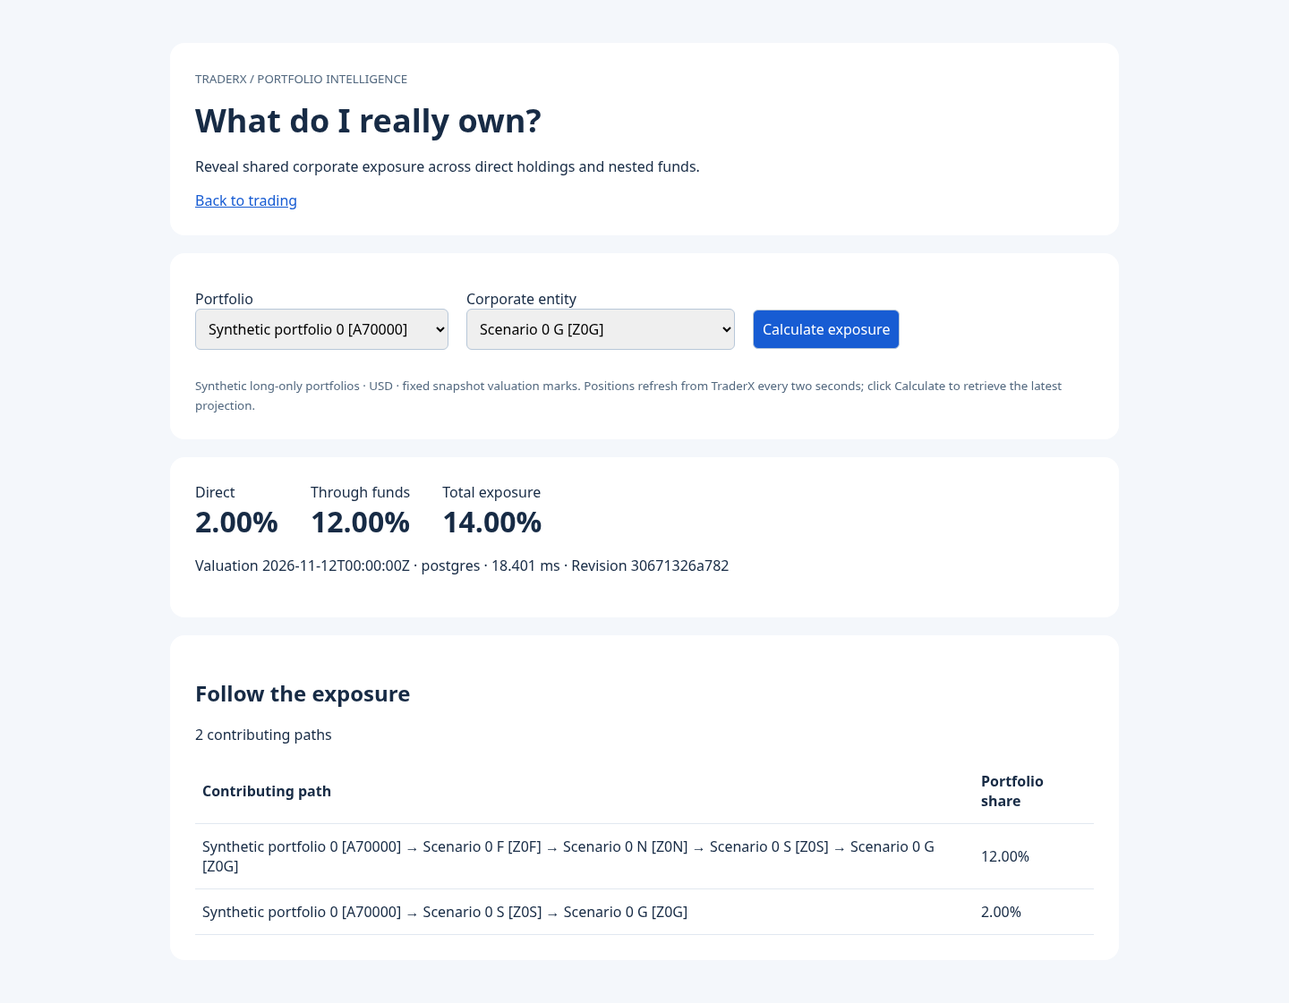
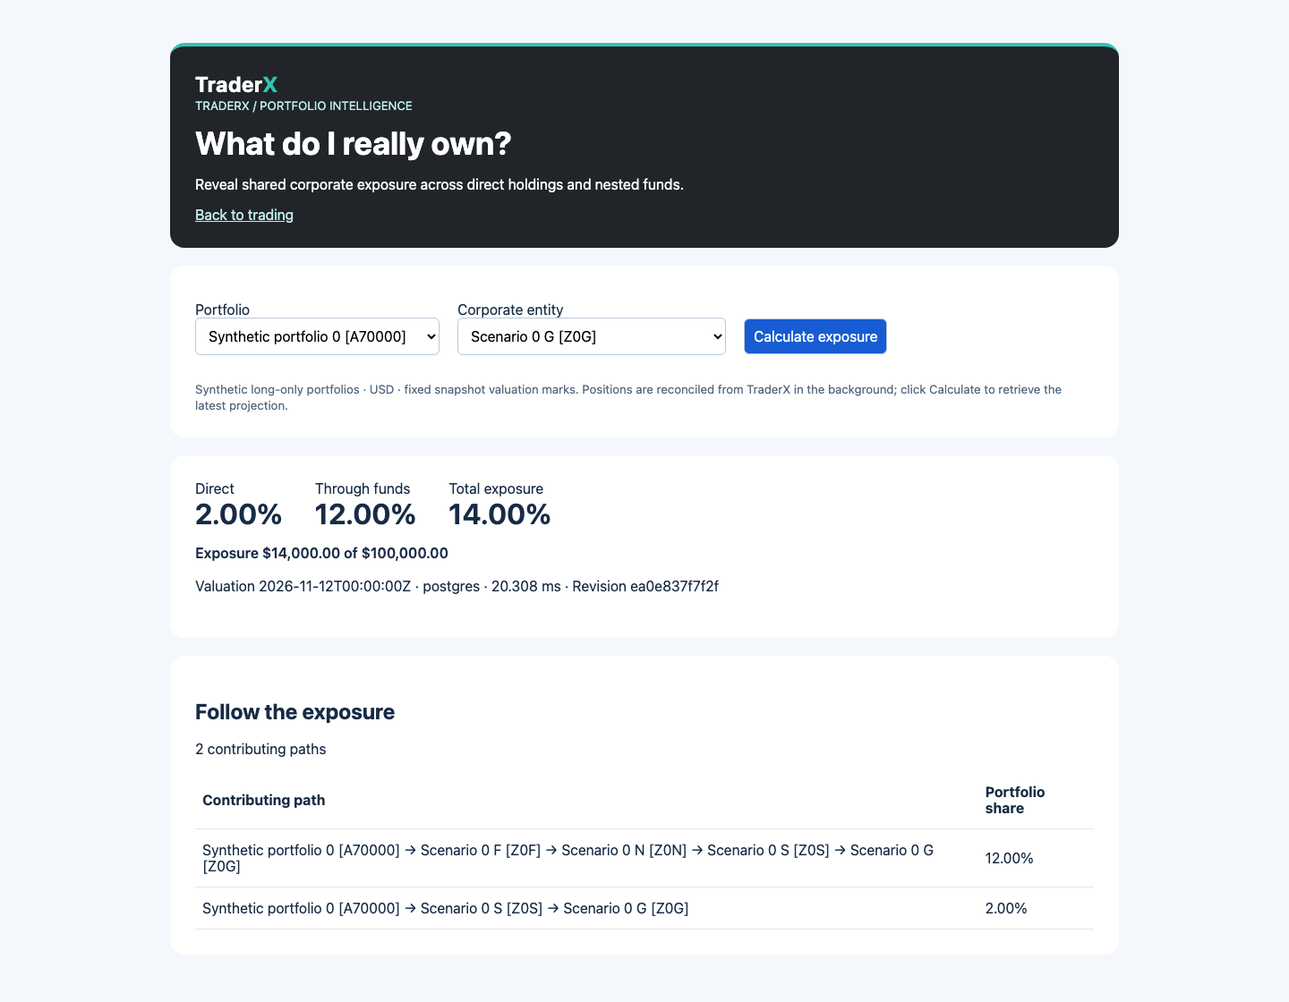
Validate exposure states, fix snapshot correctness, and benchmark 100k portfolios

diff --git a/specs/017-portfolio-lookthrough/generation/exposure-service/static/index.html b/specs/017-portfolio-lookthrough/generation/exposure-service/static/index.html
@@ -1,15 +1,15 @@
 <!doctype html><html lang="en"><meta charset="utf-8"><meta name="viewport" content="width=device-width, initial-scale=1">
 <title>TraderX · Portfolio exposure</title>
-<style>body{font:16px system-ui;color:#172b45;background:#f4f7fb;max-width:1060px;margin:48px auto;padding:0 24px}header,section{background:white;padding:28px;border-radius:16px;margin:20px 0}h1{font-size:36px;margin:12px 0}small{color:#52687f}label{display:inline-block;margin:12px 20px 12px 0}select,button{font:inherit;padding:10px;border:1px solid #b7c7d8;border-radius:6px;max-width:300px}button{background:#175cd3;color:white;cursor:pointer}.cards{display:flex;gap:36px;flex-wrap:wrap}.number{font-size:32px;font-weight:650}table{width:100%;border-collapse:collapse}td,th{overflow-wrap:anywhere;text-align:left;padding:14px 8px;border-bottom:1px solid #e1e8f0}#error{color:#a21b28}a{color:#175cd3}#status{line-height:1.6}</style>
-<header><small>TRADERX / PORTFOLIO INTELLIGENCE</small><h1>What do I really own?</h1><p>Reveal shared corporate exposure across direct holdings and nested funds.</p><a href="/trade">Back to trading</a></header>
+<style>body{font:16px system-ui;color:#172b45;background:#f4f7fb;max-width:1060px;margin:48px auto;padding:0 24px}header,section{background:white;padding:28px;border-radius:16px;margin:20px 0}h1{font-size:36px;margin:12px 0}small{color:#52687f}label{display:inline-block;margin:12px 20px 12px 0}select,button{font:inherit;padding:10px;border:1px solid #b7c7d8;border-radius:6px;max-width:300px}button{background:#175cd3;color:white;cursor:pointer}.cards{display:flex;gap:36px;flex-wrap:wrap}.number{font-size:32px;font-weight:650}table{width:100%;border-collapse:collapse}td,th{overflow-wrap:anywhere;text-align:left;padding:14px 8px;border-bottom:1px solid #e1e8f0}#error{color:#a21b28}a{color:#175cd3}#status{line-height:1.6}header{background:#212529;color:#fff;border-top:4px solid #31c3b3}header small,header a{color:#bfeee8}.brand{font-size:24px;font-weight:700;letter-spacing:.02em}.brand span{color:#31c3b3}#valuation{font-weight:600}@media(max-width:600px){body{margin:16px auto;padding:0 12px}header,section{padding:20px}h1{font-size:28px}select{max-width:100%}label{display:block;margin-right:0}.cards{gap:20px}}</style>
+<header><div class="brand">Trader<span>X</span></div><small>TRADERX / PORTFOLIO INTELLIGENCE</small><h1>What do I really own?</h1><p>Reveal shared corporate exposure across direct holdings and nested funds.</p><a href="/trade">Back to trading</a></header>
 <section><label>Portfolio<br><select id="account" aria-label="Portfolio"></select></label><label>Corporate entity<br><select id="target" aria-label="Corporate entity"></select></label><button id="refresh">Calculate exposure</button><p id="error" role="alert"></p><small>Synthetic long-only portfolios · USD · fixed snapshot valuation marks. Positions are reconciled from TraderX in the background; click Calculate to retrieve the latest projection.</small></section>
-<section><div class="cards"><div>Direct<div id="direct" class="number">—</div></div><div>Through funds<div id="indirect" class="number">—</div></div><div>Total exposure<div id="total" class="number">—</div></div></div><p id="status"></p></section>
+<section><div class="cards"><div>Direct<div id="direct" class="number">—</div></div><div>Through funds<div id="indirect" class="number">—</div></div><div>Total exposure<div id="total" class="number">—</div></div></div><p id="valuation"></p><p id="status"></p></section>
 <section><h2>Follow the exposure</h2><p id="count"></p><table><thead><tr><th>Contributing path</th><th>Portfolio share</th></tr></thead><tbody id="paths"></tbody></table></section>
 <script>
 const base=location.pathname.startsWith('/exposure')?'/exposure':'';
 const el=id=>document.getElementById(id), pct=x=>(x*100).toFixed(2)+'%';
 async function json(url){const r=await fetch(base+url);const d=await r.json();if(!r.ok)throw Error(d.error||'Service unavailable');return d;}
-async function refresh(){el('error').textContent='';el('refresh').disabled=true;try{const d=await json('/api/exposure?account='+encodeURIComponent(el('account').value.slice(1))+'&target='+encodeURIComponent(el('target').value));el('direct').textContent=pct(d.directFraction);el('indirect').textContent=pct(d.indirectFraction);el('total').textContent=pct(d.totalFraction);el('status').textContent='Valuation '+d.valuationAsOf+' · '+d.backend+' · '+d.elapsedMs+' ms · Revision '+d.revision.slice(0,12);el('count').textContent=d.pathCount+' contributing paths'+(d.pathsTruncated?' (showing first '+d.paths.length+')':'');el('paths').replaceChildren();for(const path of d.paths){const tr=document.createElement('tr');for(const text of [path.nodes.map(n=>n.name+' ['+n.id+']').join(' → '),pct(path.fraction)]){const td=document.createElement('td');td.textContent=text;tr.append(td);}el('paths').append(tr);}}catch(e){el('error').textContent=e.message;for(const id of ['direct','indirect','total'])el(id).textContent='—';el('paths').replaceChildren();}finally{el('refresh').disabled=false;}}
+async function refresh(){el('error').textContent='';el('refresh').disabled=true;try{const d=await json('/api/exposure?account='+encodeURIComponent(el('account').value.slice(1))+'&target='+encodeURIComponent(el('target').value));el('direct').textContent=pct(d.directFraction);el('indirect').textContent=pct(d.indirectFraction);el('total').textContent=pct(d.totalFraction);el('valuation').textContent='Exposure '+new Intl.NumberFormat('en-US',{style:'currency',currency:'USD'}).format(d.exposureValue)+' of '+new Intl.NumberFormat('en-US',{style:'currency',currency:'USD'}).format(d.portfolioValue);el('status').textContent='Valuation '+d.valuationAsOf+' · '+d.backend+' · '+d.elapsedMs+' ms · Revision '+d.revision.slice(0,12);el('count').textContent=d.pathCount+' contributing paths'+(d.pathsTruncated?' (showing first '+d.paths.length+')':'');el('paths').replaceChildren();for(const path of d.paths){const tr=document.createElement('tr');for(const text of [path.nodes.map(n=>n.name+' ['+n.id+']').join(' → '),pct(path.fraction)]){const td=document.createElement('td');td.textContent=text;tr.append(td);}el('paths').append(tr);}}catch(e){el('error').textContent=e.message;for(const id of ['direct','indirect','total'])el(id).textContent='—';el('paths').replaceChildren();for(const id of ['valuation','status','count'])el(id).textContent='';}finally{el('refresh').disabled=false;}}
 el('refresh').onclick=refresh;
 json('/api/catalog').then(d=>{for(const [id,items] of [['account',d.accounts],['target',d.targets]])for(const n of items){const o=document.createElement('option');o.value=n.id;o.textContent=n.name+' ['+n.id+']';el(id).append(o);}el('account').value='A70000';el('target').value='Z0G';refresh();}).catch(e=>el('error').textContent=e.message);
 </script></html>

diff --git a/scripts/test-exposure-integration.py b/scripts/test-exposure-integration.py
@@ -74,6 +74,23 @@ class ExposureIntegration(unittest.TestCase):
             db.execute("UPDATE Positions SET quantity=20 WHERE accountid=70000 AND security='Z0S'")
         for engine in (self.pg,self.graph): engine.refresh()
 
+    def test_03b_proportional_position_change(self):
+        old = self.pg.revision
+        try:
+            with psycopg.connect(DSN) as db:
+                db.execute("UPDATE Positions SET quantity=quantity*2 WHERE accountid=70000")
+            for engine in (self.pg,self.graph):
+                engine.refresh()
+                result = engine.exposure(70000,'Z0G')
+                self.assertNotEqual(old,result['revision'])
+                self.assertAlmostEqual(result['totalFraction'],.14)
+                self.assertAlmostEqual(result['portfolioValue'],200000)
+                self.assertAlmostEqual(result['exposureValue'],28000)
+        finally:
+            with psycopg.connect(DSN) as db:
+                db.execute("UPDATE Positions SET quantity=quantity/2 WHERE accountid=70000")
+            for engine in (self.pg,self.graph): engine.refresh()
+
     def test_04_allocation_change(self):
         with psycopg.connect(DSN) as db:
             db.execute("UPDATE exposure.links SET weight=.25 WHERE source='Z0N' AND target='Z0S'")
@@ -87,6 +104,7 @@ class ExposureIntegration(unittest.TestCase):
 
     def test_05_graph_loss_and_recovery(self):
         self.graph.redis.execute_command('GRAPH.DELETE',self.graph.graph)
+        with self.assertRaises(RuntimeError): self.graph.exposure(70000,'Z0G')
         self.graph.refresh()
         self.assertAlmostEqual(self.graph.exposure(70000,'Z0G')['totalFraction'],.14)
         healthy=self.graph.redis
@@ -126,6 +144,11 @@ class ExposureIntegration(unittest.TestCase):
                 for query,code in [('account=nope',400),('target=%22%7D%29%20DETACH%20DELETE%20n',404),('account=0',404)]:
                     with self.assertRaises(HTTPError) as caught: urlopen(base+'/api/exposure?'+query)
                     self.assertEqual(caught.exception.code,code)
+                engine.nodes['A100000']={'id':'A100000','name':'Large-profile account','kind':'account'}
+                with urlopen(base+'/api/catalog') as response:
+                    accounts=json.load(response)['accounts']
+                    self.assertEqual(accounts[0]['id'],'A70000')
+                engine.nodes.pop('A100000')
                 with urlopen(base+'/') as response: self.assertIn(b'What do I really own?',response.read())
                 self.assertAlmostEqual(engine.exposure(70000,'Z0G')['totalFraction'],.14)
             finally: server.shutdown();server.server_close()

diff --git a/scripts/benchmark-exposure.py b/scripts/benchmark-exposure.py
@@ -7,6 +7,7 @@ import platform
 import statistics
 import sys
 import time
+import psycopg
 sys.path.insert(0,str(Path(__file__).resolve().parents[1]/'specs/017-portfolio-lookthrough/generation/exposure-service'))
 from engine import Engine
 
@@ -16,6 +17,14 @@ report={'method':'Warm sequential, single client; 10 warmups + 100 timed request
         'machine':{'cpuCount':os.cpu_count(),'python':platform.python_version(),'architecture':platform.machine()},
         'queries':[{'name':'known-concentration','account':70000,'target':'Z0G'},
                    {'name':'overlapping-funds','account':70020,'target':'E0'}], 'results':{},'initialProjectionSeconds':{}}
+with psycopg.connect(dsn) as db:
+    report['dataset'] = {
+        'profile': db.execute('SELECT profile FROM exposure.metadata').fetchone()[0],
+        'nodes': db.execute('SELECT count(*) FROM exposure.nodes').fetchone()[0],
+        'referenceLinks': db.execute('SELECT count(*) FROM exposure.links').fetchone()[0],
+        'positions': db.execute("SELECT count(*) FROM Positions WHERE accountid IN (SELECT substring(id from 2)::int FROM exposure.nodes WHERE kind='account') AND quantity<>0").fetchone()[0],
+    }
+report['unchangedSourceRefreshSeconds'] = {}
 engines=[]
 for backend in ('postgres','falkor'):
     start=time.perf_counter();e=Engine(dsn,backend,redis_url);engines.append(e)
@@ -24,6 +33,9 @@ if engines[0].revision!=engines[1].revision: raise RuntimeError('Source changed 
 report['revision']=engines[0].revision
 for engine in engines:
     report['results'][engine.backend]={}
+    refresh_start=time.perf_counter()
+    engine.refresh()
+    report['unchangedSourceRefreshSeconds'][engine.backend]=round(time.perf_counter()-refresh_start,3)
     for query in report['queries']:
         engine.refresh()
         for _ in range(10): engine.exposure(query['account'],query['target'])
@@ -35,6 +47,11 @@ for engine in engines:
         ordered=sorted(values)
         report['results'][engine.backend][query['name']]={'samples':100,'medianMs':round(statistics.median(values),3),
             'p95Ms':ordered[94],'p99Ms':ordered[98],'pathCount':r['pathCount'],'fraction':r['totalFraction']}
+for query in report['queries']:
+    pg = report['results']['postgres'][query['name']]
+    graph = report['results']['falkor'][query['name']]
+    if pg['pathCount'] != graph['pathCount'] or abs(pg['fraction']-graph['fraction']) > 1e-9:
+        raise RuntimeError('Benchmark backend results disagree')
 print(json.dumps(report,indent=2))
 if os.environ.get('EXPOSURE_BENCHMARK_OUTPUT'):
     Path(os.environ['EXPOSURE_BENCHMARK_OUTPUT']).write_text(json.dumps(report,indent=2)+'\n')

diff --git a/specs/017-portfolio-lookthrough/generation/exposure-service/engine.py b/specs/017-portfolio-lookthrough/generation/exposure-service/engine.py
@@ -3,6 +3,7 @@ import hashlib
 import json
 import threading
 import time
+import uuid
 from datetime import datetime, timezone
 import psycopg
 from redis import Redis
@@ -55,7 +56,7 @@ def source_snapshot(dsn):
     edges = list(links)
     for a,s,q,mark in holdings: edges.append((f'A{a}',s,q*mark/totals[a]))
     validate(nodes,edges)
-    encoded=json.dumps([nodes,edges,as_of],separators=(',',':')).encode()
+    encoded=json.dumps([nodes,edges,as_of,totals],separators=(',',':')).encode()
     return nodes,edges,hashlib.sha256(encoded).hexdigest(),as_of,totals
 
 
@@ -93,7 +94,7 @@ class Engine:
             # Detect data loss after a FalkorDB restart even if source is unchanged.
             graph_alive = self.redis.exists(self.graph) if self.redis and self.graph else True
             if revision != self.revision or not graph_alive:
-                graph='exposure_'+revision[:24]
+                graph='exposure_'+revision[:24]+'_'+uuid.uuid4().hex[:12]
                 if self.redis:
                     if self.redis.exists(graph): self.redis.execute_command('GRAPH.DELETE',graph)
                     self.query_graph(graph,'CREATE INDEX FOR (n:Entity) ON (n.id)')
@@ -143,6 +144,9 @@ class Engine:
             if source not in self.nodes or target not in self.nodes: raise KeyError('Unknown account or target')
             if self.nodes[target]['kind']!='company': raise ValueError('Target must be a corporate entity')
             if self.redis:
+                # A missing graph must not become a successful empty exposure query.
+                if not self.redis.exists(self.graph):
+                    raise RuntimeError('Projection graph is missing; wait for reconciliation')
                 # IDs are JSON-escaped literals, never interpolated raw Cypher input.
                 rows=self.query_graph(self.graph,
                     f'MATCH p=(a:Entity {{id:{json.dumps(source)}}})-[:EXPOSURE*1..{MAX_DEPTH}]->'

diff --git a/scripts/test-exposure-browser.py b/scripts/test-exposure-browser.py
@@ -14,6 +14,8 @@ with sync_playwright() as p:
     expect(page.locator('#direct')).to_have_text('2.00%')
     expect(page.locator('#indirect')).to_have_text('12.00%')
     expect(page.locator('#paths tr')).to_have_count(2)
+    expect(page.locator('#valuation')).to_have_text('Exposure $14,000.00 of $100,000.00')
+    expect(page.locator('.brand')).to_have_text('TraderX')
     page.screenshot(path=str(output),full_page=True)
     page.select_option('#target','Z1G');page.click('#refresh')
     expect(page.locator('#total')).to_have_text('0.00%')
@@ -21,6 +23,8 @@ with sync_playwright() as p:
     page.route('**/api/exposure?**',lambda route:route.fulfill(status=503,content_type='application/json',body='{"error":"Projection unavailable"}'))
     page.click('#refresh');expect(page.locator('#error')).to_have_text('Projection unavailable')
     expect(page.locator('#total')).to_have_text('—')
+    for selector in ('#valuation','#status','#count'):
+        expect(page.locator(selector)).to_be_empty()
     assert not errors,errors
     page.set_viewport_size({'width':390,'height':844})
     page.screenshot(path=str(output.with_name(output.stem+'-mobile.png')),full_page=True)

diff --git a/specs/017-portfolio-lookthrough/generation/exposure-service/app.py b/specs/017-portfolio-lookthrough/generation/exposure-service/app.py
@@ -26,7 +26,8 @@ def make_handler(engine):
                     result=engine.status(); code=200 if result['healthy'] else 503
                 elif url.path=='/api/catalog':
                     with engine.lock:
-                        result={'accounts':[n for n in engine.nodes.values() if n['kind']=='account'][:1000],
+                        result={'accounts':sorted((n for n in engine.nodes.values() if n['kind']=='account'),
+                                                  key=lambda n:int(n['id'][1:]))[:1000],
                                 'targets':[n for n in engine.nodes.values() if n['kind']=='company'],
                                 'status':engine.status()}
                     code=200

diff --git a/docs/benchmarks/portfolio-lookthrough.md b/docs/benchmarks/portfolio-lookthrough.md
@@ -22,9 +22,54 @@ PostgreSQL is faster on the small known scenario. FalkorDB is approximately 5× 
 
 See [machine-readable results](portfolio-lookthrough-local.json) for source revision, p99 and individual query definitions. Reproduce with `scripts/benchmark-exposure.py`; use the disposable-database workflow in the state quickstarts. The opt-in benchmark profile with 100,000 accounts is available but was not used for these numbers.
 
+## Review rerun — 13 November 2026
+
+The continuation on macOS ARM64 (10 logical CPUs, Python 3.14.3, Docker Desktop, PostgreSQL 16.4 and FalkorDB 4.16.0) independently reran the demo comparison after fixing revisions for proportional position changes and rejecting missing graph reads. Both databases use normal local Docker storage. These runs share a development host with other workloads and are not isolated capacity measurements.
+
+| Demo query | Paths | PostgreSQL median / p95 | FalkorDB median / p95 |
+| --- | ---: | ---: | ---: |
+| Known concentration | 2 | 0.306 / 1.279 ms | 0.730 / 1.444 ms |
+| Overlapping funds | 25 | 7.286 / 14.001 ms | 1.365 / 1.933 ms |
+
+Initial projection: PostgreSQL 0.683 s; FalkorDB 2.105 s. See [review JSON](portfolio-lookthrough-local-review.json). Do not compare these absolute times directly with the earlier Linux host.
+
+**Current conclusion:** FalkorDB shows a traversal advantage on the overlapping examples, but this experiment has not established a compelling product advantage or a general major-improvement claim.
+
+For an occasional interactive lookup, both query latencies are already small. A roughly six-millisecond median saving on the overlapping query alone does not justify adding a graph database. The useful follow-up questions are how latency changes with overlapping paths and concurrency, how often source updates occur, and whether projection/reconciliation cost and freshness meet the product's needs. Dataset size alone does not establish those answers.
+
+## 100,000-account profile — 13 November 2026
+
+The opt-in profile was run on the same ARM64 host: 100,000 accounts, 10,000 core securities (1,000 funds), 4,000 corporate entities and 100 scenario entities. Total: 114,100 nodes, 112,100 reference links and 2,999,460 positions, producing 3,111,560 relationships. Generation plus one-time seeding took 54.83 seconds. Both databases used normal Docker storage; an earlier temporary-memory-storage attempt ran out of its allocation and is excluded. Reclaiming unused Docker build cache resolved the original disk-space blocker.
+
+| Query | Paths | PostgreSQL median / p95 | FalkorDB median / p95 |
+| --- | ---: | ---: | ---: |
+| Known concentration | 2 | 0.641 / 1.364 ms | 1.060 / 2.934 ms |
+| Overlapping funds | 8 | 2.315 / 6.905 ms | 0.994 / 3.515 ms |
+
+Initial projection creation took **11.010 s for PostgreSQL** and **89.101 s for FalkorDB**. An unchanged-source full refresh took **5.058 s** and **4.916 s**, respectively (one measured refresh per backend). Both backends agreed on fractions and path counts. See [full benchmark JSON](portfolio-lookthrough-100k.json) and [dataset setup timing](portfolio-lookthrough-100k-setup.json).
+
+The overlapping query has **8 paths in this profile, versus 25 in the demo**: changing the generator profile changes the securities and holdings. These measurements compare backends on identical data within each profile, but do **not** isolate the effect of database size across profiles. Larger global data did not automatically make these bounded portfolio queries slower. A controlled next experiment should keep the queried subgraph constant while scaling unrelated portfolios, then separately increase path overlap/depth and concurrent users.
+
+Full-snapshot reconciliation is the clear limitation at this scale. The service sleeps two seconds *after* each refresh, so a five-second unchanged refresh gives roughly a seven-second polling cycle, not two-second freshness. A changed-source graph rebuild comparable to the measured 89-second initialization can exceed the 15-second freshness limit and cause temporary HTTP 503 responses. This prototype is suitable for an experiment, not evidence of production readiness for rapidly changing 100,000-account books. Incremental updates/CDC and measured concurrent load remain follow-up work. The 100k run checks the two benchmark queries; the complete nine-test regression suite was run on demo and small profiles, not the 100k profile.
+
+To reproduce on isolated databases initialized with the inherited TraderX schema, install the exposure-service requirements and seed the desired profile once:
+
+```bash
+export EXPOSURE_TEST_DSN=postgresql://traderx:traderx@localhost:5432/traderx
+export EXPOSURE_TEST_REDIS_URL=redis://localhost:6379
+PYTHONPATH=specs/017-portfolio-lookthrough/generation/exposure-service python - <<'PYCODE'
+import os
+from dataset import generate, seed_database
+seed_database(os.environ['EXPOSURE_TEST_DSN'], generate('benchmark'))
+PYCODE
+python scripts/benchmark-exposure.py > benchmark-100k.json
+```
+
+Use a fresh isolated database when changing profile. The benchmark includes source snapshot, validation and projection loading in initial projection time, but excludes refresh from query latency. Do not interpret these sequential local timings as concurrent throughput or end-user HTTP latency.
+
 ## Validation evidence
 
-The database integration suite covers 20 independently specified 14% exposure scenarios, SQL/Cypher parity, position mutations and denominator changes, allocation changes, graph loss/rebuild, graph endpoint failure/recovery, invalid-source rejection, non-destructive reseeding, HTTP errors and injection-shaped target input. Browser checks exercise totals, explanation paths, zero exposure, failure display and mobile rendering.
+The database integration suite covers 20 independently specified 14% exposure scenarios, SQL/Cypher parity, position mutations and denominator changes, allocation changes, graph loss/rebuild, graph endpoint failure/recovery, invalid-source rejection, non-destructive reseeding, HTTP errors and injection-shaped target input. Browser checks exercise totals, monetary values, explanation paths, zero exposure, failure display and mobile rendering. The review rerun passed nine integration tests on each of the small and demo profiles, including proportional position scaling and missing-graph rejection. A real FalkorDB container restart also recovered successfully. Both states regenerated sequentially; Compose configuration, lifecycle dry-runs, lineage/lifecycle policies and all four repository quality gates passed. The exposure container image and inherited Angular production build passed (existing initial-bundle warning). The screenshots below show the independent TraderX-branded addition served by the built image against real databases on the small profile. Full C2 trading end-to-end regression remains unrun.
 
 ![State 017 PostgreSQL exposure](../img/portfolio-lookthrough/state017.png)
 

diff --git a/specs/017-portfolio-lookthrough/spec.md b/specs/017-portfolio-lookthrough/spec.md
@@ -19,6 +19,8 @@ A presenter compares PostgreSQL and FalkorDB using identical data, APIs, and ind
 - NFR-01702: Support current-snapshot, single-currency long-only portfolios with fixed $100 synthetic marks. Fail closed on unknown marks, shorts, cycles, invalid fund weights or depth exceeding 12. Historical as-of queries and market-risk loss estimates are outside scope.
 - NFR-01703: Preserve older states; keep durable sources in this feature pack and generate runtime artifacts. Observe projection health and source-check age via Prometheus.
 
+The exposure view is an independent addition with TraderX branding, a link from the trading header, and a return-to-trading link. It displays monetary exposure alongside fractions; errors clear previous results and valuation metadata.
+
 ## Acceptance scenarios
 1. Given account 70000 and target Z0G, show 2% direct + 12% indirect = 14% total and two contributing paths.
 2. Change its direct security quantity in Positions; observe a new revision and correctly changed denominator and exposure in both backends.

diff --git a/specs/018-falkordb-lookthrough/spec.md b/specs/018-falkordb-lookthrough/spec.md
@@ -19,6 +19,8 @@ A presenter compares PostgreSQL and FalkorDB using identical data, APIs, and ind
 - NFR-01802: Support current-snapshot, single-currency long-only portfolios with fixed $100 synthetic marks. Fail closed on unknown marks, shorts, cycles, invalid fund weights or depth exceeding 12. Historical as-of queries and market-risk loss estimates are outside scope.
 - NFR-01803: Preserve older states; keep durable sources in this feature pack and generate runtime artifacts. Observe projection health and source-check age via Prometheus.
 
+The exposure view is an independent addition with TraderX branding, a link from the trading header, and a return-to-trading link. It displays monetary exposure alongside fractions; errors clear previous results and valuation metadata.
+
 ## Acceptance scenarios
 1. Given account 70000 and target Z0G, show 2% direct + 12% indirect = 14% total and two contributing paths.
 2. Change its direct security quantity in Positions; observe a new revision and correctly changed denominator and exposure in both backends.
